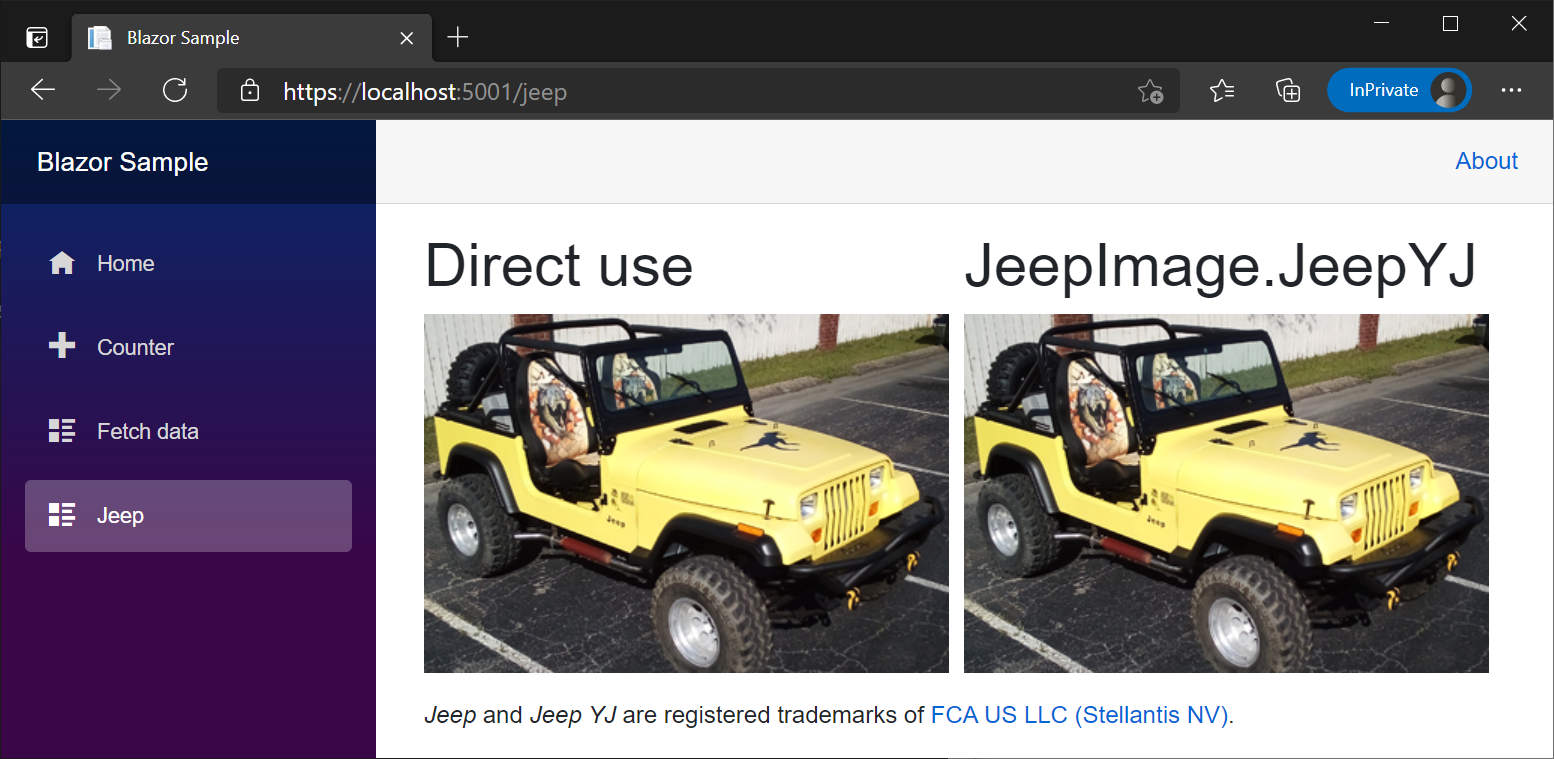
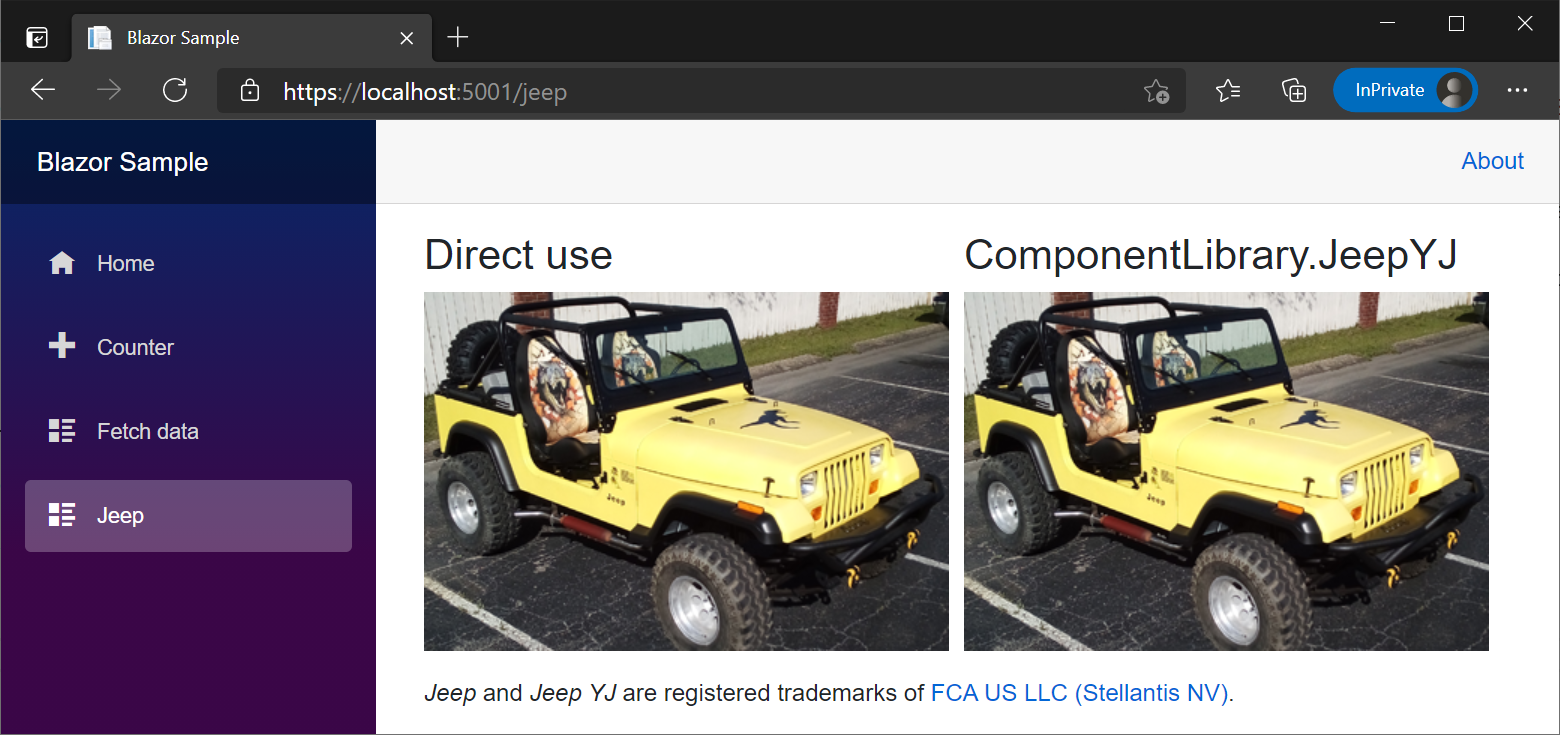
Updates

diff --git a/aspnetcore/blazor/components/class-libraries.md b/aspnetcore/blazor/components/class-libraries.md
@@ -5,7 +5,7 @@ description: Discover how components can be included in Blazor apps from an exte
 monikerRange: '>= aspnetcore-3.1'
 ms.author: riande
 ms.custom: mvc
-ms.date: 04/06/2021
+ms.date: 04/07/2021
 no-loc: [appsettings.json, "ASP.NET Core Identity", cookie, Cookie, Blazor, "Blazor Server", "Blazor WebAssembly", "Identity", "Let's Encrypt", Razor, SignalR]
 uid: blazor/components/class-libraries
 ---
@@ -36,14 +36,37 @@ Just as components are regular .NET types, components provided by an RCL are nor
    1. Right-click the app project. Select **Add** > **Project Reference**.
    1. Select the RCL project. Select **OK**.
 
-> [!NOTE]
-> If the **Support pages and views** check box is selected when generating the RCL from the template, add an `_Imports.razor` file to root of the generated RCL project with the following contents to enable Razor component authoring:
->
-> ```razor
-> @using Microsoft.AspNetCore.Components.Web
-> ```
->
-> Manually add the file the root of the generated RCL project.
+::: moniker range=">= aspnetcore-5.0"
+
+If the **Support pages and views** check box is selected to support pages and views when generating the RCL from the template:
+
+* Add an `_Imports.razor` file to root of the generated RCL project with the following contents to enable Razor component authoring:
+
+  ```razor
+  @using Microsoft.AspNetCore.Components.Web
+  ```
+
+* Add the following `SupportedPlatform` item to the project file (`.csproj`):
+
+  ```xml
+  <ItemGroup>
+    <SupportedPlatform Include="browser" />
+  </ItemGroup>
+  ```
+
+  For more information on the `SupportedPlatform` item, see the [Browser compatibility analyzer for Blazor WebAssembly](#browser-compatibility-analyzer-for-blazor-webassembly) section.
+
+::: moniker-end
+
+::: moniker range="< aspnetcore-5.0"
+
+If the **Support pages and views** check box is selected to support pages and views when generating the RCL from the template, add an `_Imports.razor` file to root of the generated RCL project with the following contents to enable Razor component authoring:
+
+```razor
+@using Microsoft.AspNetCore.Components.Web
+```
+
+::: moniker-end
 
 # [Visual Studio for Mac](#tab/visual-studio-mac)
 
@@ -60,14 +83,37 @@ Just as components are regular .NET types, components provided by an RCL are nor
    1. Right-click the app project. Select **Add** > **Reference**.
    1. Select the RCL project. Select **OK**.
 
-> [!NOTE]
-> If the **Support pages and views** check box is selected when generating the RCL from the template, add an `_Imports.razor` file to root of the generated RCL project with the following contents to enable Razor component authoring:
->
-> ```razor
-> @using Microsoft.AspNetCore.Components.Web
-> ```
->
-> Manually add the file the root of the generated RCL project.
+::: moniker range=">= aspnetcore-5.0"
+
+If the **Support pages and views** check box is selected to support pages and views when generating the RCL from the template:
+
+* Add an `_Imports.razor` file to root of the generated RCL project with the following contents to enable Razor component authoring:
+
+  ```razor
+  @using Microsoft.AspNetCore.Components.Web
+  ```
+
+* Add the following `SupportedPlatform` item to the project file (`.csproj`):
+
+  ```xml
+  <ItemGroup>
+    <SupportedPlatform Include="browser" />
+  </ItemGroup>
+  ```
+
+  For more information on the `SupportedPlatform` item, see the [Browser compatibility analyzer for Blazor WebAssembly](#browser-compatibility-analyzer-for-blazor-webassembly) section.
+
+::: moniker-end
+
+::: moniker range="< aspnetcore-5.0"
+
+If the **Support pages and views** check box is selected to support pages and views when generating the RCL from the template, add an `_Imports.razor` file to root of the generated RCL project with the following contents to enable Razor component authoring:
+
+```razor
+@using Microsoft.AspNetCore.Components.Web
+```
+
+::: moniker-end
 
 # [Visual Studio Code / .NET Core CLI](#tab/visual-studio-code+netcore-cli)
 
@@ -77,20 +123,43 @@ Just as components are regular .NET types, components provided by an RCL are nor
    dotnet new razorclasslib -o ComponentLibrary
    ```
 
-   > [!NOTE]
-   > If the `-s|--support-pages-and-views` option is used when generating the RCL from the template, then also add an `_Imports.razor` file to root of the generated RCL project with the following contents to enable Razor component authoring:
-   >
-   > ```razor
-   > @using Microsoft.AspNetCore.Components.Web
-   > ```
-   >
-   > Manually add the file the root of the generated RCL project.
-
 1. To add the library to an existing project, use the [`dotnet add reference`](/dotnet/core/tools/dotnet-add-reference) command in a command shell. In the following command, the `{PATH TO LIBRARY}` placeholder is the path to the library's project folder:
 
    ```dotnetcli
    dotnet add reference {PATH TO LIBRARY}
    ```
+
+::: moniker range=">= aspnetcore-5.0"
+
+If the `-s|--support-pages-and-views` option is used to support pages and views when generating the RCL from the template:
+
+* Add an `_Imports.razor` file to root of the generated RCL project with the following contents to enable Razor component authoring:
+
+  ```razor
+  @using Microsoft.AspNetCore.Components.Web
+  ```
+
+* Add the following `SupportedPlatform` item to the project file (`.csproj`):
+
+  ```xml
+  <ItemGroup>
+    <SupportedPlatform Include="browser" />
+  </ItemGroup>
+  ```
+
+  For more information on the `SupportedPlatform` item, see the [Browser compatibility analyzer for Blazor WebAssembly](#browser-compatibility-analyzer-for-blazor-webassembly) section.
+
+::: moniker-end
+
+::: moniker range="< aspnetcore-5.0"
+
+If the `-s|--support-pages-and-views` option is used to support pages and views when generating the RCL from the template, add an `_Imports.razor` file to root of the generated RCL project with the following contents to enable Razor component authoring:
+
+```razor
+@using Microsoft.AspNetCore.Components.Web
+```
+
+::: moniker-end
 
 ---
 
@@ -99,13 +168,16 @@ Just as components are regular .NET types, components provided by an RCL are nor
 To consume components from an RCL in another project, use either of the following approaches:
 
 * Use the full component type name, which includes the RCL's namespace.
-* Individual components can be added by name if Razor's [`@using`](xref:mvc/views/razor#using) directive declares the RCL's namespace.
+* Individual components can be added by name without the RCL's namespace if Razor's [`@using`](xref:mvc/views/razor#using) directive declares the RCL's namespace. Use the following approaches:
   * Add the `@using` directive to individual components.
-  * include the `@using` directive in the top-level `_Import.razor` file to make the library's components available to an entire project. Add the directive to an `_Import.razor` file at any level to apply the namespace to a single component or set of components within a folder. When this approach is adopted, individual components don't require an `@using` directive for the RCL's namespace.
+  * include the `@using` directive in the top-level `_Imports.razor` file to make the library's components available to an entire project. Add the directive to an `_Imports.razor` file at any level to apply the namespace to a single component or set of components within a folder. When an `_Imports.razor` file is used, individual components don't require an `@using` directive for the RCL's namespace.
 
-In the following examples, `ComponentLibrary` is an RCL containing the `Component1` component. The `Component1` component is an example component automatically added to an RCL created from the RCL project template.
+In the following examples, `ComponentLibrary` is an RCL containing the `Component1` component. The `Component1` component is an example component automatically added to an RCL created from the RCL project template that isn't created to support pages and views.
 
-`Component1.razor` in `ComponentLibrary` RCL:
+> [!NOTE]
+> If the RCL is created to support pages and views, manually add the `Component1` component and its static assets to the RCL if you plan to follow the examples in this article. The component and static assets are shown in this section.
+
+`Component1.razor` in the `ComponentLibrary` RCL:
 
 ```razor
 <div class="my-component">
@@ -125,7 +197,7 @@ In the app that consumes the RCL, reference the `Component1` component using its
 <ComponentLibrary.Component1 />
 ```
 
-Alternatively, add a [`@using`](xref:mvc/views/razor#using) directive and use the component without its namespace. The following `@using` directive could also appear in any `_Imports.razor` file within or above the current folder.
+Alternatively, add a [`@using`](xref:mvc/views/razor#using) directive and use the component without its namespace. The following `@using` directive can also appear in any `_Imports.razor` file in or above the current folder.
 
 `Pages/ConsumeComponent2.razor`:
 
@@ -140,9 +212,9 @@ Alternatively, add a [`@using`](xref:mvc/views/razor#using) directive and use th
 
 ::: moniker range=">= aspnetcore-5.0"
 
-For library components that use [CSS isolation](xref:blazor/components/css-isolation), the component styles are automatically made available to the consuming app. There's no need to link the library's individual component stylesheets in the app that consumes the library. For the preceding examples, `Component1`'s stylesheet is included automatically.
+For library components that use [CSS isolation](xref:blazor/components/css-isolation), the component styles are automatically made available to the consuming app. There's no need to link the library's individual component stylesheets in the app that consumes the library. For the preceding examples, `Component1`'s stylesheet (`Component1.razor.css`) is included automatically.
 
-`Component1.razor.css` in `ComponentLibrary` RCL:
+`Component1.razor.css` in the `ComponentLibrary` RCL:
 
 ```css
 .my-component {
@@ -153,9 +225,9 @@ For library components that use [CSS isolation](xref:blazor/components/css-isola
 }
 ```
 
-The background image is also included from the RCL project template and resides in the `wwwroot` folder of the `ComponentLibrary`. There's no need to take action for an RCL's component to use the background image in this scenario.
+The background image is also included from the RCL project template and resides in the `wwwroot` folder of the RCL.
 
-`wwwroot/background.png` in `ComponentLibrary` RCL:
+`wwwroot/background.png` in the `ComponentLibrary` RCL:
 
 ![Diagonally-striped background image from the RCL project template](class-libraries/_static/background.png)
 
@@ -165,15 +237,15 @@ The background image is also included from the RCL project template and resides 
 
 To provide additional library component styles from stylesheets in the library's `wwwroot` folder, link the stylesheets using the framework's `Link` component.
 
-The following background image is used in this section's example. If you implement the example shown in this section, right-click the image and save it locally.
+The following background image is used in the next example. If you implement the example shown in this section, right-click the image to save it locally.
 
-`wwwroot/extra-background.png` in `ComponentLibrary` RCL:
+`wwwroot/extra-background.png` in the `ComponentLibrary` RCL:
 
 ![Diagonally-striped background image added to the library by the developer](class-libraries/_static/extra-background.png)
 
-Add a new stylesheet to the RCL.
+Add a new stylesheet to the RCL with an `extra-style` class.
 
-`wwwroot/additionalStyles.css` in `ComponentLibrary` RCL:
+`wwwroot/additionalStyles.css` in the `ComponentLibrary` RCL:
 
 ```css
 .extra-style {
@@ -184,9 +256,9 @@ Add a new stylesheet to the RCL.
 }
 ```
 
-Add a component to the RCL.
+Add a component to the RCL that uses the `extra-style` class.
 
-`ExtraStyles.razor` in `ComponentLibrary` RCL:
+`ExtraStyles.razor` in the `ComponentLibrary` RCL:
 
 ```razor
 <Link href="_content/ComponentLibrary/additionalStyles.css" rel="stylesheet" />
@@ -198,7 +270,7 @@ Add a component to the RCL.
 </div>
 ```
 
-Add a page to the app.
+Add a page to the app that uses the `ExtraStyles` component from the RCL.
 
 `Pages/ConsumeComponent3.razor`:
 
@@ -230,13 +302,13 @@ The distinction between using the `Link` component in a child component and plac
 
 ::: moniker range="< aspnetcore-5.0"
 
-The following background image and stylesheet are used by the RCL's `Component1` example component. There's no need to add these static assets to a new RCL created from the RCL project template.
+The following background image and stylesheet are used by the RCL's `Component1` example component. There's no need to add these static assets to a new RCL created from the RCL project template, as they're added automatically by the project template.
 
-`wwwroot/background.png` in `ComponentLibrary` RCL:
+`wwwroot/background.png` in the `ComponentLibrary` RCL:
 
 ![Diagonally-striped background image added to the library by the RCL project template](class-libraries/_static/background.png)
 
-`wwwroot/styles.css` in `ComponentLibrary` RCL:
+`wwwroot/styles.css` in the `ComponentLibrary` RCL:
 
 ```css
 .my-component {
@@ -261,44 +333,44 @@ To provide `Component1`'s `my-component` CSS class, link to the library's styles
 
 An RCL's static assets are available to any app that consumes the library.
 
-Place static assets in the `wwwroot` folder of the RCL and reference the static assets with the following path: `_content/{LIBRARY NAME}/{ASSET FILE NAME}`. The `{LIBRARY NAME}` placeholder is the library name. The `{ASSET FILE NAME}` placeholder is the file name.
+Place static assets in the `wwwroot` folder of the RCL and reference the static assets with the following path in the app: `_content/{LIBRARY NAME}/{ASSET FILE NAME}`. The `{LIBRARY NAME}` placeholder is the library name. The `{ASSET FILE NAME}` placeholder is the file name.
 
-The following example demonstrates the use of RCL static assets with an RCL named `JeepImage` and a Blazor app that consumes the RCL. The app has a project reference for the `JeepImage` RCL.
+The following example demonstrates the use of RCL static assets with an RCL named `ComponentLibrary` and a Blazor app that consumes the RCL. The app has a project reference for the `ComponentLibrary` RCL.
 
-The following Jeep image is used in this section's example. If you implement the example shown in this section, right-click the image and save it locally.
+The following Jeep&reg; image is used in this section's example. If you implement the example shown in this section, right-click the image to save it locally.
 
-`wwwroot/jeep-yj.png` in the `JeepImage` RCL:
+`wwwroot/jeep-yj.png` in the `ComponentLibrary` RCL:
 
 ![Jeep YJ&reg;](class-libraries/_static/jeep-yj.png)
 
-Add the following `JeepYJ` component to the `JeepImage` RCL.
+Add the following `JeepYJ` component to the RCL.
 
-`JeepYJ.razor` in `JeepImage` RCL:
+`JeepYJ.razor` in the `ComponentLibrary` RCL:
 
 ```razor
-<h1>JeepImage.JeepYJ</h1>
+<h3>ComponentLibrary.JeepYJ</h3>
 
 <p>
-    <img alt="Jeep YJ&reg;" src="_content/JeepImage/jeep-yj.png" />
+    <img alt="Jeep YJ&reg;" src="_content/ComponentLibrary/jeep-yj.png" />
 </p>
 ```
 
-Add the following `Jeep` component to the app that consumes the `JeepImage` RCL. The `Jeep` component uses:
+Add the following `Jeep` component to the app that consumes the `ComponentLibrary` RCL. The `Jeep` component uses:
 
-* The Jeep YJ&reg; image from the `JeepImage` RCL's `wwwroot` folder.
+* The Jeep YJ&reg; image from the `ComponentLibrary` RCL's `wwwroot` folder.
 * The `JeepYJ` component from the RCL.
 
 `Pages/Jeep.razor`:
 
 ```razor
 @page "/jeep"
-@using JeepImage
+@using ComponentLibrary
 
 <div style="float:left;margin-right:10px">
-    <h1>Direct use</h1>
+    <h3>Direct use</h3>
 
     <p>
-        <img alt="Jeep YJ&reg;" src="_content/JeepImage/jeep-yj.png" />
+        <img alt="Jeep YJ&reg;" src="_content/ComponentLibrary/jeep-yj.png" />
     </p>
 </div>
 

diff --git a/aspnetcore/blazor/test.md b/aspnetcore/blazor/test.md
@@ -65,7 +65,7 @@ Consider the scenario when choosing the type of testing to perform. Some conside
 | Component with simple JS interop logic | Unit testing | It's common for components to query the DOM or trigger animations through JS interop. Unit testing is usually preferred in this scenario, since it's straightforward to mock the JS interaction through the <xref:Microsoft.JSInterop.IJSRuntime> interface. |
 | Component that depends on complex JS code | Unit testing and separate JS testing | If a component uses JS interop to call a large or complex JS library but the interaction between the Blazor component and JS library is simple, then the best approach is likely to treat the component and JS library or code as two separate parts and test each individually. Test the Blazor component with a unit testing library, and test the JS with a JS testing library. |
 | Component with logic that depends on JS manipulation of the browser DOM | E2E testing | When a component's functionality is dependent on JS and its manipulation of the DOM, verify both the JS and Blazor code together in an E2E test. This is the approach that the Blazor framework developers have taken with Blazor's browser rendering logic, which has tightly-coupled C# and JS code. The C# and JS code must work together to correctly render Blazor components in a browser.
-| Component that depends on 3rd party component library with hard-to-mock dependencies | E2E testing | When a component's functionality is dependent on a 3rd party component library that has hard-to-mock dependencies, such as JS interop, E2E testing might be the only option to test the component. |
+| Component that depends on 3rd party class library with hard-to-mock dependencies | E2E testing | When a component's functionality is dependent on a 3rd party class library that has hard-to-mock dependencies, such as JS interop, E2E testing might be the only option to test the component. |
 
 ## Test components with bUnit
 

diff --git a/aspnetcore/blazor/components/css-isolation.md b/aspnetcore/blazor/components/css-isolation.md
@@ -210,7 +210,7 @@ In the following example:
 <link href="_content/ClassLib/ClassLib.bundle.scp.css" rel="stylesheet">
 ```
 
-For more information on RCLs and component libraries, see the following articles:
+For more information on RCLs and Razor class libraries, see the following articles:
 
 * <xref:blazor/components/class-libraries>
 * <xref:razor-pages/ui-class>

diff --git a/aspnetcore/release-notes/aspnetcore-3.0.md b/aspnetcore/release-notes/aspnetcore-3.0.md
@@ -27,7 +27,7 @@ Blazor framework supported scenarios:
 * Component layouts
 * Support for dependency injection
 * Forms and validation
-* Build component libraries with Razor class libraries
+* Supply Razor components in Razor class libraries
 * JavaScript interop
 
 For more information, see <xref:blazor/index>.
